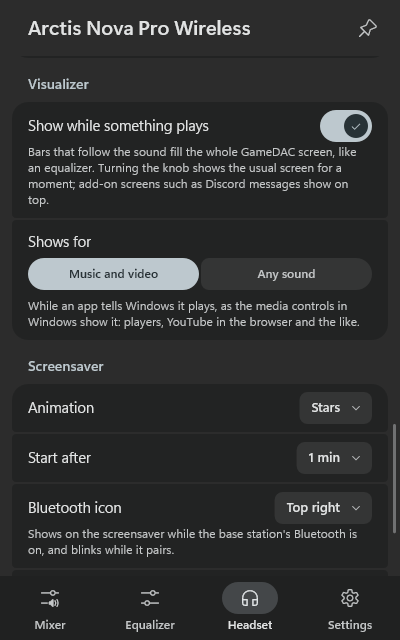
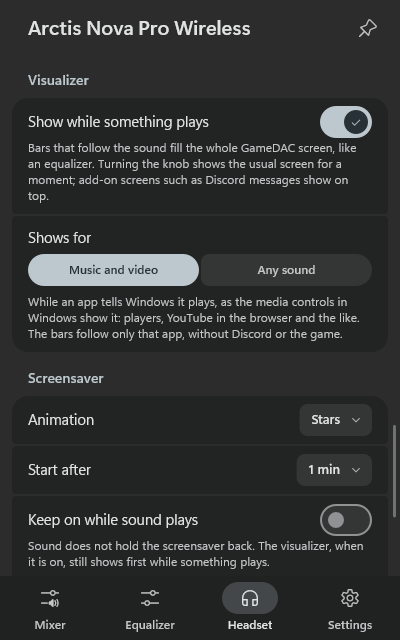
Idle screen: keep-on switch through the generic settings edit
The switch went through a new PanelHost method that tools/preview does not
implement, so the preview no longer built; it now uses the panel's generic
settings edit, like the visualizer switch above it. It shows with the
delay, so also for an add-on's idle screen without an animation, which
follows the switch too. The switch hint no longer repeats the bottom hint,
the Ukrainian and Turkish texts are reworded, and both READMEs and the
screensaver screenshot show the switch.

diff --git a/src/i18n.cpp b/src/i18n.cpp
@@ -600,8 +600,8 @@ constexpr std::array<const wchar_t*, kCount> kEnglish = {
     L"Searching…",  // AddOnSearching
     L"The add-on did not answer.",  // AddOnNoAnswer
     L"Keep on while sound plays",  // IdleWhileSound
-    L"Plays the screensaver while sound plays, too: only using the headset or OpenChatMix brings the usual screen back, and the screensaver returns after the chosen delay. The visualizer still shows first while it is on.",  // IdleWhileSoundHint
-    L"Plays on the GameDAC screen even while sound plays, so the OLED does not burn in. Using the GameDAC or OpenChatMix brings the usual screen back until the chosen delay passes.",  // IdleHintWhileSound
+    L"Sound does not hold the screensaver back. The visualizer, when it is on, still shows first while something plays.",  // IdleWhileSoundHint
+    L"Plays on the GameDAC screen even while sound plays, so the OLED does not burn in. The GameDAC knob or a change in OpenChatMix brings the usual screen back until the delay passes again.",  // IdleHintWhileSound
 };
 
 constexpr std::array<const wchar_t*, kCount> kUkrainian = {
@@ -1195,9 +1195,9 @@ constexpr std::array<const wchar_t*, kCount> kUkrainian = {
     L"Завантаження…",
     L"Пошук…",
     L"Доповнення не відповіло.",
-    L"Працює і під час звуку",  // IdleWhileSound
-    L"Показує заставку й тоді, коли грає звук: звичайний екран повертає лише користування гарнітурою чи OpenChatMix, і заставка повертається за обрану затримку. Візуалізатор, коли він увімкнений, показується першим.",  // IdleWhileSoundHint
-    L"Показується на екрані GameDAC навіть під час звуку, щоб OLED не вигоряв. Керування гарнітурою чи OpenChatMix повертає звичайний екран до спливу обраної затримки.",  // IdleHintWhileSound
+    L"Запускати й під час звуку",
+    L"Звук не відкладає заставку. Візуалізатор, коли він увімкнений, і далі показується першим, поки щось грає.",
+    L"Відтворюється на дисплеї GameDAC і під час звуку, щоб OLED не вигорав. Коліщатко GameDAC або зміна в OpenChatMix повертають звичайний екран, доки знову не мине затримка.",
 };
 
 constexpr std::array<const wchar_t*, kCount> kTurkish = {
@@ -1791,9 +1791,9 @@ constexpr std::array<const wchar_t*, kCount> kTurkish = {
     L"Yükleniyor…",
     L"Aranıyor…",
     L"Eklenti yanıt vermedi.",
-    L"Ses çalarken de açık kalır",  // IdleWhileSound
-    L"Ses çalarken de ekran koruyucuyu gösterir: normal ekranı yalnızca kulaklığı veya OpenChatMix'i kullanmak geri getirir, ekran koruyucu seçilen gecikmeden sonra geri döner. Görselleştirici açıkken önce o gösterilir.",  // IdleWhileSoundHint
-    L"Ses çalarken bile GameDAC ekranında oynatılır, böylece OLED yanmaz. GameDAC'i veya OpenChatMix'i kullanmak seçilen gecikme geçene kadar normal ekranı geri getirir.",  // IdleHintWhileSound
+    L"Ses çalarken de açık kalır",
+    L"Ses, ekran koruyucuyu geciktirmez. Görselleştirici açıksa, bir şey çalarken yine önce o gösterilir.",
+    L"Ses çalarken de GameDAC ekranında oynar, böylece OLED yanmaz. GameDAC düğmesi ya da OpenChatMix'teki bir değişiklik, gecikme yeniden dolana kadar her zamanki ekranı geri getirir.",
 };
 
 constexpr bool IsComplete(const std::array<const wchar_t*, kCount>& table) {

diff --git a/src/ui/panel_pages.cpp b/src/ui/panel_pages.cpp
@@ -782,11 +782,10 @@ float Panel::DrawIdleScreen(float y) {
         rows.push_back(DropdownItem(
             HashId(kKindIdle, L"delay"), T(Text::IdleDelay), delay, delays,
             [](int i) { return DelayLabel(kIdleDelays[i]); }, [this](int i) { host_.OnIdleDelay(kIdleDelays[i]); }));
-    }
-
-    if (on) {
-        rows.push_back(SwitchItem(HashId(kKindIdle, L"whilesound"), T(Text::IdleWhileSound), idle_.whileSound,
-                                  [this] { host_.OnIdleWhileSound(); }, T(Text::IdleWhileSoundHint)));
+        rows.push_back(SwitchItem(HashId(kKindIdle, L"whilesound"), T(Text::IdleWhileSound),
+                                  settings_.idleScreen.whileSound, [this] {
+            Edit([](Settings& s) { s.idleScreen.whileSound = !s.idleScreen.whileSound; });
+        }, T(Text::IdleWhileSoundHint)));
     }
 
     if (on && idle_.bluetooth) {
@@ -826,7 +825,7 @@ float Panel::DrawIdleScreen(float y) {
                                        0, T(Text::IdleTestButton), true, [this] { host_.OnIdleTest(); });
                         }});
     }
-    rows.push_back(HintItem(T(idle_.whileSound ? Text::IdleHintWhileSound : Text::IdleHint)));
+    rows.push_back(HintItem(T(settings_.idleScreen.whileSound ? Text::IdleHintWhileSound : Text::IdleHint)));
     const std::wstring gg = std::wstring(T(Text::IdleGgApps)) + idle_.ggApps;
     if (on && !idle_.ggApps.empty()) {
         rows.push_back(HintItem(gg.c_str()));

diff --git a/src/main.cpp b/src/main.cpp
@@ -198,7 +198,6 @@ public:
     void OnIdleImage(const std::wstring& path) override;
     void OnIdleTest() override;
     void OnIdleBluetoothIcon(IconCorner corner) override;
-    void OnIdleWhileSound() override;
     void OnAddOnPreview(const std::wstring& path, const std::wstring& event) override;
     void OnSettingsEdit(const std::function<void(Settings&)>& edit) override;
     std::vector<AudioEndpoint> PlaybackDevices() override;
@@ -2486,7 +2485,6 @@ void PushIdleScreen() {
     ui::IdleScreenView view;
     view.animation = idle.animation;
     view.delaySeconds = idle.delaySeconds;
-    view.whileSound = idle.whileSound;
     view.imageName = idle.image.empty() ? L"" : FileNameOf(idle.image);
     view.showing = g_app.idleShowing;
     view.ggApps = g_app.ggScreen.names;
@@ -3861,12 +3859,6 @@ void Host::OnIdleBluetoothIcon(IconCorner corner) {
 
 void Host::OnIdleDelay(int seconds) {
     g_app.settings.idleScreen.delaySeconds = seconds;
-    Save();
-    PushIdleScreen();
-}
-
-void Host::OnIdleWhileSound() {
-    g_app.settings.idleScreen.whileSound = !g_app.settings.idleScreen.whileSound;
     Save();
     PushIdleScreen();
 }

diff --git a/src/ui/panel.h b/src/ui/panel.h
@@ -145,7 +145,6 @@ struct AddOnsView {
 struct IdleScreenView {
     IdleAnimationKind animation = IdleAnimationKind::Off;
     int delaySeconds = 60;
-    bool whileSound = false;  // The screensaver keeps running while sound plays.
     std::wstring imageName;  // File name of the chosen image.
     bool showing = false;    // The animation is on the display right now.
     std::wstring ggApps;     // SteelSeries GG's apps that draw on the display, which the screensaver gives way to.
@@ -193,7 +192,6 @@ public:
     // Shows the chosen screensaver on the headset for a few seconds.
     virtual void OnIdleTest() = 0;
     virtual void OnIdleBluetoothIcon(IconCorner corner) = 0;
-    virtual void OnIdleWhileSound() = 0;
     // Shows the add-on's screen for the event on the headset once, with sample fields.
     virtual void OnAddOnPreview(const std::wstring& path, const std::wstring& event) = 0;
     // Any other setting: the edit runs on the host's settings, which then reach the panel again.

diff --git a/src/settings.h b/src/settings.h
@@ -220,7 +220,7 @@ struct VisualizerSettings {
 struct IdleScreenSettings {
     IdleAnimationKind animation = IdleAnimationKind::Off;
     int delaySeconds = 60;
-    bool whileSound = false;  // The screensaver runs while sound plays, too; only using the headset or the app shows the usual screen.
+    bool whileSound = false;  // Sound does not hold the screensaver back; only using the headset or the app does.
     std::wstring image;  // Image or GIF for IdleAnimationKind::Image.
     IconCorner bluetoothIcon = IconCorner::TopRight;  // While the base station's Bluetooth is on.
 };

diff --git a/README.md b/README.md
@@ -124,15 +124,16 @@ native settings, so GG and Sonar can stay closed:
   sends them; on the Nova 7 Gen 2 with its shelves and passes as peaks), so it works without virtual
   devices too.
 - **EQ presets as files.** Save the current curve, import presets from others, keep backups.
-- **Screensaver for the GameDAC display** (Nova Pro). While no sound plays, an animation, a clock
-  or your own image or GIF keeps the OLED from burning in. Any sound brings the usual screen back.
-  The *Screensaver on/off* hotkey keeps it on until you press it again, and *Test* on
-  the *Headset* tab shows it for a few seconds. It also runs while SteelSeries GG is open and gives
-  way to GG's own apps for the display (Discord, Now Playing, Spotify, Audio Visualizer) that are
-  switched on: the moment one of them hands GG a message, a track or its animation, even without sound,
-  the screensaver stops drawing over it until GG is done. With the Nova Pro Wireless it can show a
-  Bluetooth icon in a corner while the base station's Bluetooth is on: steady with a device connected,
-  blinking slowly while it waits for one and fast while it pairs.
+- **Screensaver for the GameDAC display** (Nova Pro). While no sound plays, an animation, a clock or
+  your own image or GIF keeps the OLED from burning in. Any sound brings the usual screen back; with
+  *Keep on while sound plays* only turning the knob or a change in OpenChatMix does, so the screensaver
+  runs during games and music too. The *Screensaver on/off* hotkey keeps it on until you press it
+  again, and *Test* on the *Headset* tab shows it for a few seconds. It also runs while SteelSeries GG
+  is open and gives way to GG's own apps for the display (Discord, Now Playing, Spotify, Audio
+  Visualizer) that are switched on: the moment one of them hands GG a message, a track or its
+  animation, even without sound, the screensaver stops drawing over it until GG is done. With the Nova
+  Pro Wireless it can show a Bluetooth icon in a corner while the base station's Bluetooth is on:
+  steady with a device connected, blinking slowly while it waits for one and fast while it pairs.
 - **Visualizer for the GameDAC screen** (Nova Pro). Bars that follow the sound fill the whole screen while
   music or a video plays, or for any sound if you like. Music and video are told apart the way Windows
   knows them: an app that plays tells the media controls of Windows, as players and YouTube in the
@@ -377,7 +378,7 @@ positives to your antivirus vendor; for Microsoft Defender use the
 | Headset settings and EQ | *Headset* tab (shown when a supported headset is connected). |
 | Rename, copy or delete saved headset presets | *Headset* tab → the buttons beside each preset under *My presets*. Deleted presets go to the Recycle Bin. |
 | Save, import or back up EQ presets | *Headset* tab → *Save* / *Import* / *Folder*. Presets live in `%APPDATA%\OpenChatMix\Presets`. |
-| Screensaver on the GameDAC | *Headset* tab → *Screensaver* → pick an animation and the delay; the *Screensaver on/off* hotkey keeps it on until pressed again. |
+| Screensaver on the GameDAC | *Headset* tab → *Screensaver* → pick an animation and the delay, and turn on *Keep on while sound plays* to run it during games and music too; the *Screensaver on/off* hotkey keeps it on until pressed again. |
 | Line out: speakers or a stream mix | *Headset* tab → *Line out* (GameDAC); in *Streaming* set the main sound, aux input and microphone levels. |
 | Virtual device mode, Media and Aux groups, equalizer, ducking | *Settings* → *Audio*. |
 | Equalizer for Game and Chat | *Equalizer* tab (virtual device mode), once turned on in *Settings* → *Audio*. |
@@ -636,12 +637,15 @@ Sound → All sound devices*. The output and microphone pickers also leave out v
 <details>
 <summary>Show the screensaver and the visualizer</summary>
 
-The GameDAC and the Nova Pro Wireless base station have a 128×64 OLED that shows the same screen
-for hours when nothing plays. The screensaver replaces it after a chosen delay (15 s to 10 min)
-without sound. Any sound, turning the knob or a change made in OpenChatMix brings the usual
-screen back at once, so the level meters still show while audio plays. The *Screensaver on/off* hotkey
-keeps it on until you press it again, sound or not; turning the knob or a change made in OpenChatMix
-then shows the usual screen for three seconds.
+The GameDAC and the Nova Pro Wireless base station have a 128×64 OLED that shows the same screen for
+hours when nothing plays. The screensaver replaces it after a chosen delay (15 s to 10 min) without
+sound. Any sound, turning the knob or a change made in OpenChatMix brings the usual screen back at
+once, so the level meters still show while audio plays. The *Screensaver on/off* hotkey keeps it on
+until you press it again, sound or not; turning the knob or a change made in OpenChatMix then shows
+the usual screen for three seconds. With *Keep on while sound plays* sound does not count toward the
+delay: the screensaver starts after it while a game or music plays too, and turning the knob or a
+change made in OpenChatMix shows the usual screen until the delay passes again. The visualizer, when
+it is on, still shows first while something plays.
 
 <p align="center">
   <img src="docs/screenshots/screensaver.png" width="260" alt="Visualizer and screensaver settings">
@@ -695,13 +699,14 @@ what plays, the weather and the PC's figures on the GameDAC screen while the hea
   <img src="docs/screenshots/info-screen-settings-pc.png" width="260" alt="The Info Screen's settings in OpenChatMix: memory and fans">
 </p>
 
-**When it shows.** In the screensaver's place: after the screensaver's delay without sound and without the
-headset or OpenChatMix being used (the delay shows on the *Headset* tab even with no animation chosen), and while
-the *Screensaver on/off* hotkey keeps it on. While music or a video plays, the visualizer shows when it is on, and
-the Info Screen takes its place when it is off. When the music ends, the Info Screen comes back at once: sound
-that the visualizer or the Info Screen showed for does not count toward the delay. Turning the knob or a change
-made in OpenChatMix shows the GameDAC's own screen, as with the screensaver, and screens of other add-ons, such as
-Discord messages, still go over it. *Test* on the *Headset* tab tries the animation, not the Info Screen.
+**When it shows.** In the screensaver's place: after the screensaver's delay without the headset or
+OpenChatMix being used and, unless *Keep on while sound plays* is on, without sound (the delay shows on
+the *Headset* tab even with no animation chosen), and while the *Screensaver on/off* hotkey keeps it on.
+While music or a video plays, the visualizer shows when it is on, and the Info Screen takes its place when
+it is off. When the music ends, the Info Screen comes back at once: sound that the visualizer or the Info
+Screen showed for does not count toward the delay. Turning the knob or a change made in OpenChatMix shows
+the GameDAC's own screen, as with the screensaver, and screens of other add-ons, such as Discord messages,
+still go over it. *Test* on the *Headset* tab tries the animation, not the Info Screen.
 
 **What it shows**, all on one screen, each item only when it is on and has a value:
 
